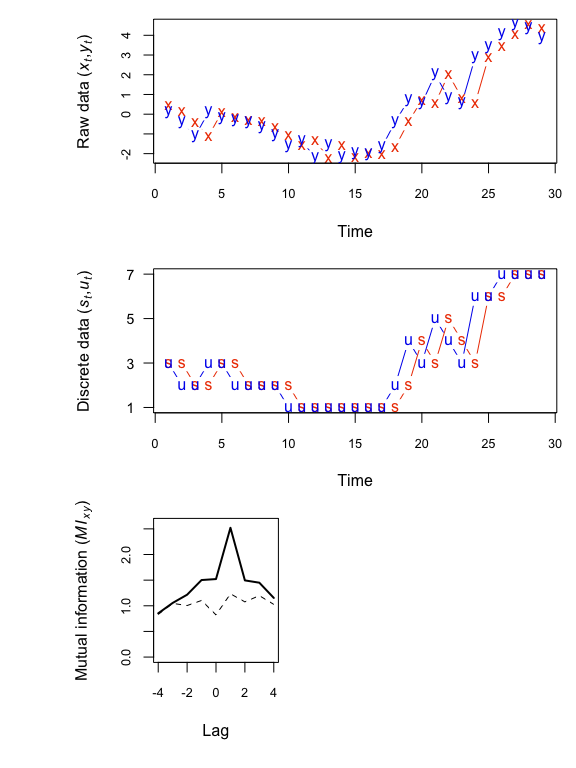
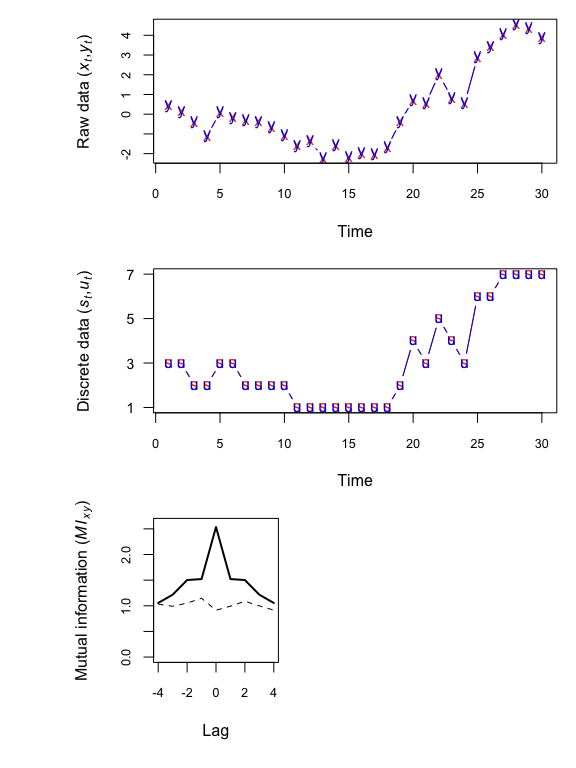
added more examples

diff --git a/README.md b/README.md
@@ -134,18 +134,18 @@ Here's an example of examining the MI of a single time series at multiple time l
 
 ``` r
 x <- cumsum(rnorm(TT))
-muti(x[-TT],x[-1],sym=FALSE)
+muti(x,x,sym=FALSE)
 ```
 
 ![](README_files/figure-markdown_github/ex_5-1.png)
 
-    ##       lag     MI_xy     MI_ci
-    ##  [1,]  -4 0.8530202 0.8320115
-    ##  [2,]  -3 1.0554051 1.0469995
-    ##  [3,]  -2 1.2159387 1.0047938
-    ##  [4,]  -1 1.5020663 1.1035966
-    ##  [5,]   0 1.5210534 0.8228241
-    ##  [6,]   1 2.5210688 1.2331335
-    ##  [7,]   2 1.4950352 1.0766605
-    ##  [8,]   3 1.4501998 1.1974625
-    ##  [9,]   4 1.1534112 1.0277111
+    ##       lag    MI_xy     MI_ci
+    ##  [1,]  -4 1.055405 1.0313110
+    ##  [2,]  -3 1.215939 0.9910761
+    ##  [3,]  -2 1.502066 1.0525182
+    ##  [4,]  -1 1.521053 1.1467516
+    ##  [5,]   0 2.534849 0.9133418
+    ##  [6,]   1 1.521053 0.9922666
+    ##  [7,]   2 1.502066 1.0881062
+    ##  [8,]   3 1.215939 0.9983719
+    ##  [9,]   4 1.055405 0.9151214
